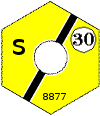
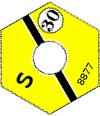
Added tiles to Tiles Library, added 1880 tokens too the tokens library and created 1880 graphics.

diff --git a/buildingBlocks/gimpPythonScripts/BD18-token-adjust.py b/buildingBlocks/gimpPythonScripts/BD18-token-adjust.py
@@ -20,10 +20,6 @@ def token_adjust(inImg, inLayer) :
     pdb.plug_in_autocrop(inImg, bigLayer)
     pdb.gimp_layer_flatten(bigLayer)
     pdb.gimp_image_scale(inImg, 30, 30)
-    pdb.gimp_fuzzy_select(bigLayer, 3, 3, 255, 0, 1, 0, 0, 0)
-    pdb.gimp_layer_add_alpha(bigLayer)
-    pdb.plug_in_colortoalpha(inImg, bigLayer, (255, 255, 255))
-    pdb.gimp_selection_none(inImg)
     
 register(
     "token_adjust",
